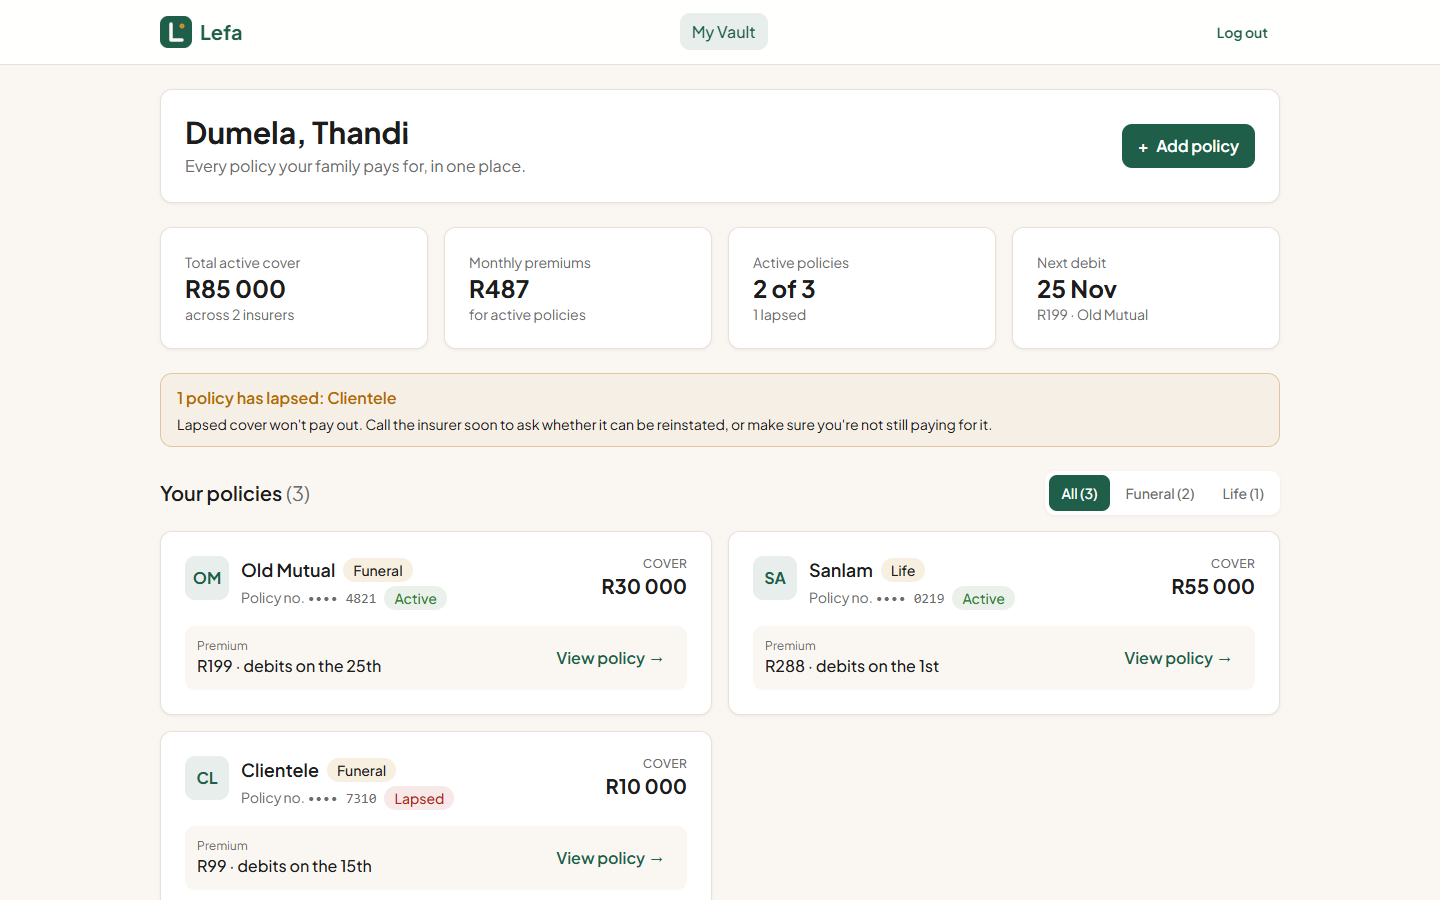
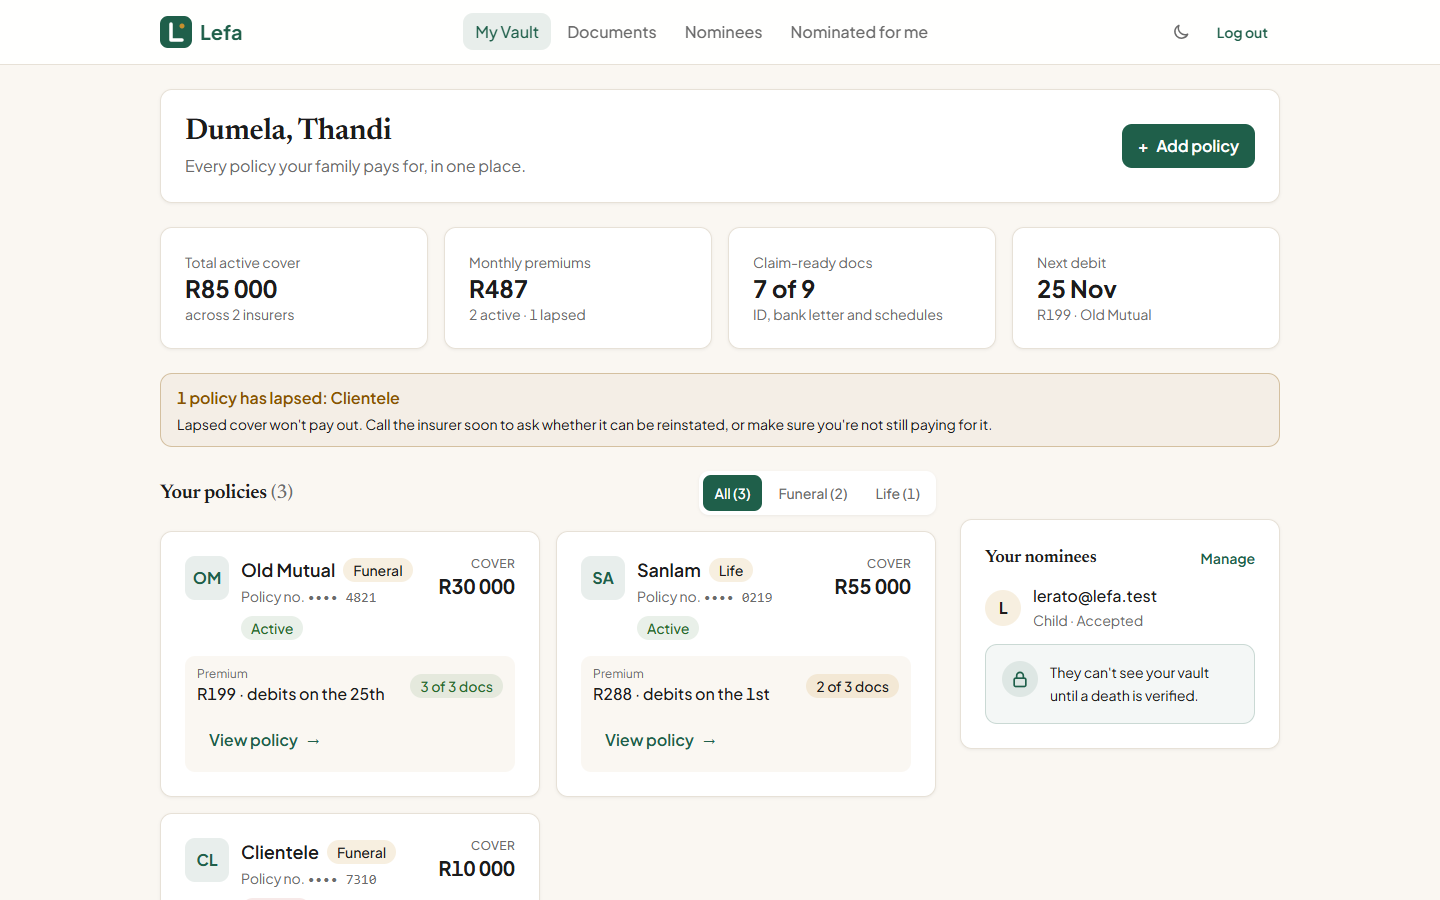
content: current Lefa screenshot and highlights

diff --git a/src/data/content.js b/src/data/content.js
@@ -35,9 +35,10 @@ export const projects = [
       'South Africans hold 17 million funeral policies, yet billions in benefits go unclaimed and 8.7 million policies lapsed in 2025. Families often don’t know which policies exist or how to claim in time for a funeral.',
     role: 'Solo: product, database design, API, front end, tests and deployment.',
     highlights: [
-      'Row Level Security: each family sees only its own policies, proven by 115 database tests',
-      'Role-based access (member / broker / admin) that users can’t grant themselves',
-      'Vault totals in exact cents, next-debit reminder and lapse warnings',
+      'The unlock: a nominee can’t see a single policy until a broker verifies the death, then the vault opens and claims start in one step',
+      'Broker dashboard: verify death reports against the certificate and move every claim through a logged pipeline',
+      'Privacy enforced in the database with Row Level Security, proven by 115 database tests (plus 103 API and 199 front-end)',
+      'Family vault: policies, private claim documents, next debit date and lapse warnings',
     ],
     stack: ['React 19', 'Tailwind 4', 'TanStack Query', 'Express 5', 'Supabase', 'PostgreSQL', 'Jest', 'GitHub Actions'],
     live: 'https://lefa-nine.vercel.app',
